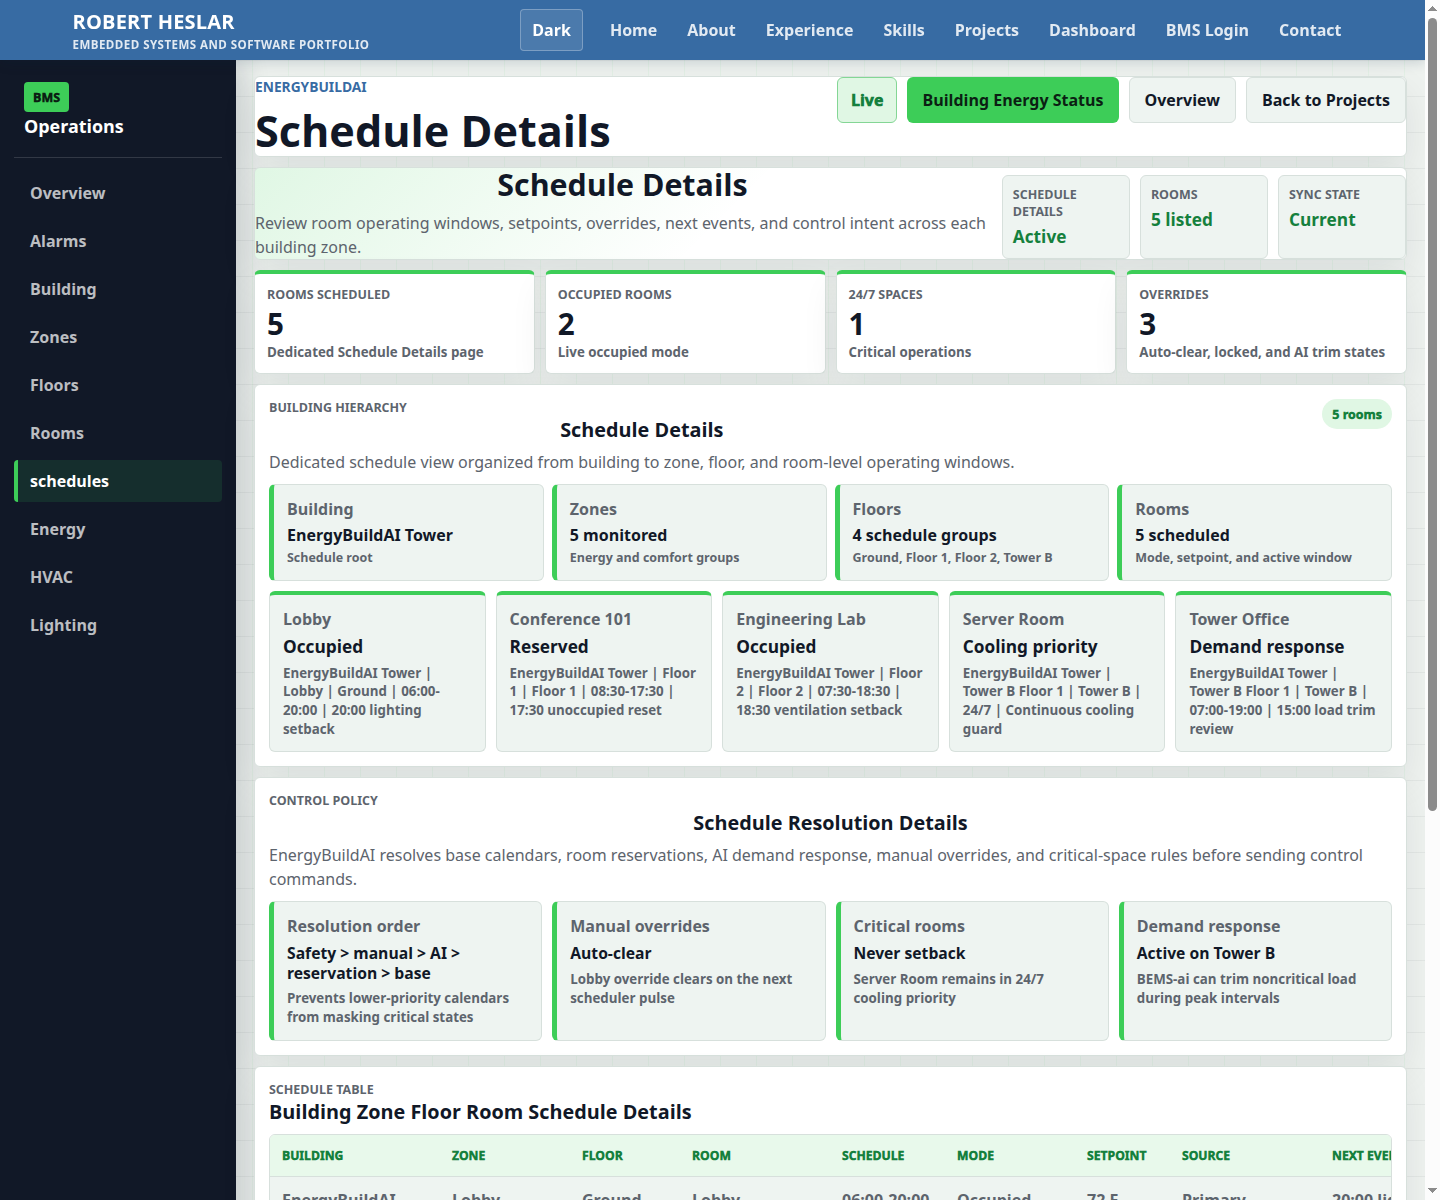
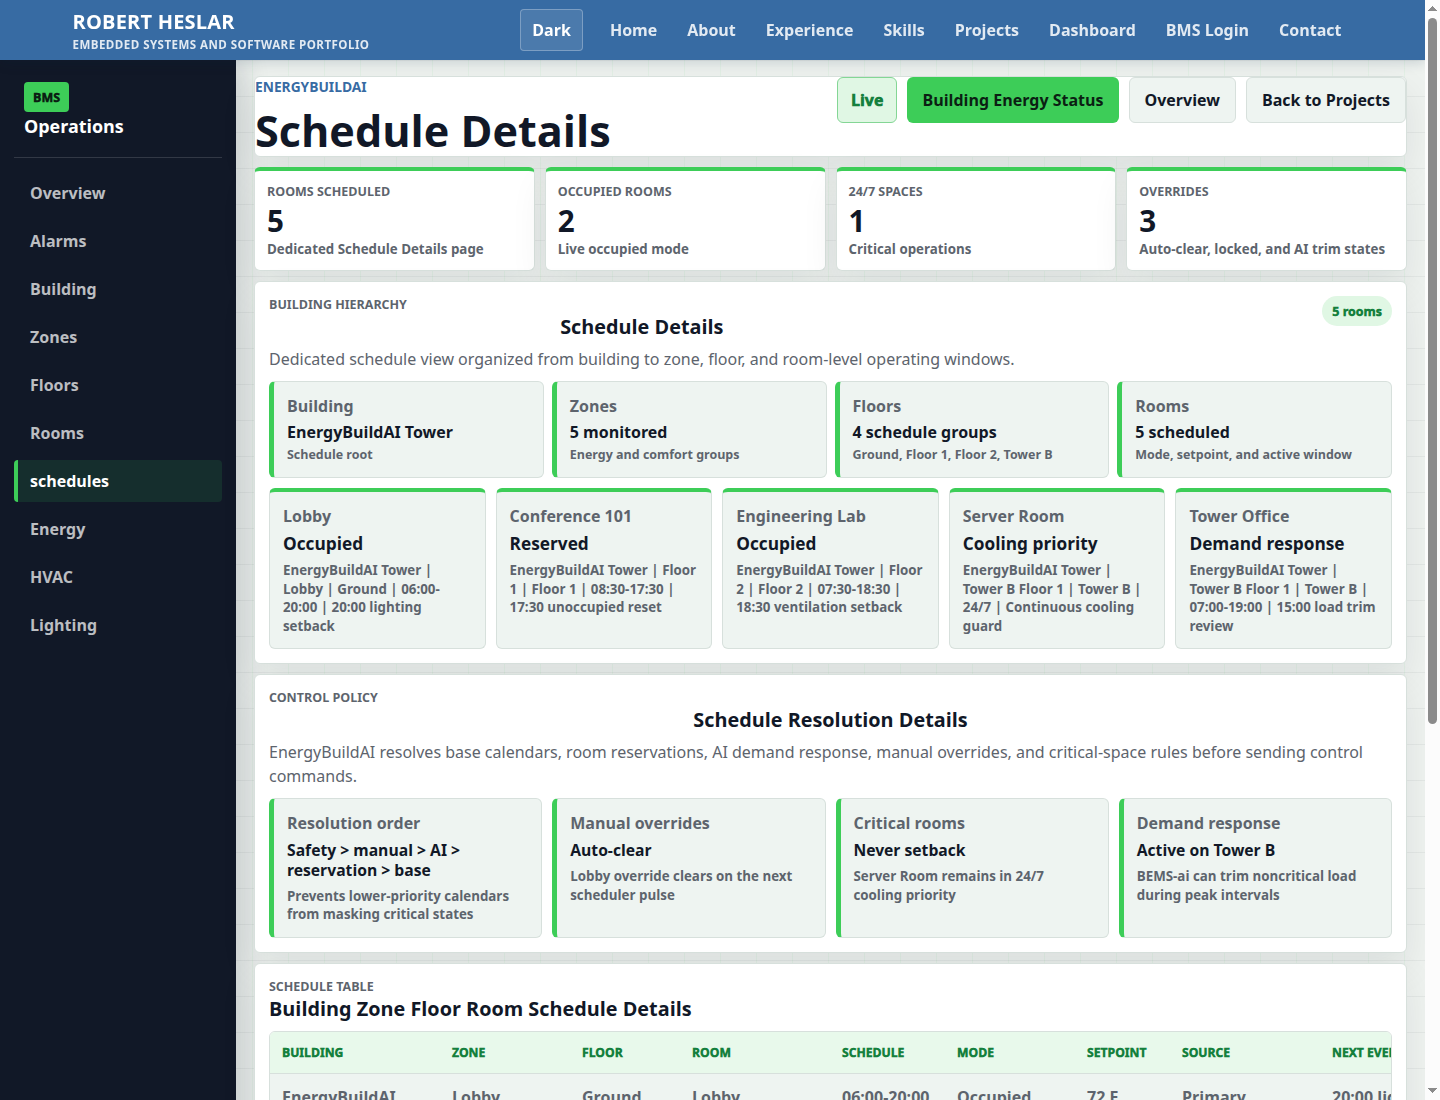
Remove schedule intro hero copy

diff --git a/src/components/Dashboard.tsx b/src/components/Dashboard.tsx
@@ -369,14 +369,14 @@ function Dashboard({ activeView = 'Overview' }: DashboardProps) {
       : isBuildingView
         ? 'Building Summary opens as a dedicated dashboard subpage for core facility status.'
       : isScheduleView
-        ? 'Schedule Details'
+        ? ''
       : '';
   const heroCopy = isAlarmView
     ? 'Select an alarm to inspect its location, source point, current reading, threshold, likely cause, impact, response steps, and event history.'
     : isBuildingView
       ? 'Use the Building tab for a concise view of the building, floors, zones, rooms, and connected systems.'
       : isScheduleView
-        ? 'Review room operating windows, setpoints, overrides, next events, and control intent across each building zone.'
+        ? ''
       : 'Real-time energy zones, comfort risk, alarm state, equipment health, portfolio evidence, and AI-assisted BEMS recommendations are arranged like an operational building dashboard.';
   const systemSummary = isAlarmView
     ? [
@@ -457,7 +457,7 @@ function Dashboard({ activeView = 'Overview' }: DashboardProps) {
           </div>
         </section>
 
-        {(isAlarmView || isBuildingView || isScheduleView) && (
+        {(isAlarmView || isBuildingView) && (
           <section className="eco-command-hero">
             <div>
               <h2>{heroTitle}</h2>

diff --git a/src/App.test.tsx b/src/App.test.tsx
@@ -76,7 +76,7 @@ test('redirects BMS login to the dashboard after successful credentials', () => 
   window.location.hash = '';
 });
 
-test('renders Schedule Details directly from #dashboard/schedules', () => {
+test('renders schedules directly from #dashboard/schedules without the removed intro copy', () => {
   jest.useFakeTimers();
   const container = document.createElement('div');
   document.body.appendChild(container);
@@ -94,7 +94,8 @@ test('renders Schedule Details directly from #dashboard/schedules', () => {
 
   expect(container.textContent).toContain('Schedule Details');
   expect(container.textContent).toContain('schedules');
-  expect(container.textContent).toContain('Review room operating windows, setpoints, overrides, next events, and control intent across each building zone.');
+  expect(container.textContent).toContain('Building Hierarchy');
+  expect(container.querySelector('.eco-command-hero')).toBeNull();
   expect(container.textContent).not.toContain('Secure BMS Access');
 
   act(() => {

diff --git a/docs/energybuildai-schedule-route-test-report.md b/docs/energybuildai-schedule-route-test-report.md
@@ -9,14 +9,14 @@ Confirm that the static portfolio route `#dashboard/schedules` opens the dashboa
 Automated coverage lives in `src/App.test.tsx`.
 
 ```text
-renders Schedule Details directly from #dashboard/schedules
+renders schedules directly from #dashboard/schedules without the removed intro copy
 ```
 
 The test sets `window.location.hash = '#dashboard/schedules'`, renders `App`, advances the loading timer, and verifies:
 
 - the dashboard renders the `Schedule Details` page title,
 - the left operation sidebar renders `schedules`,
-- the operator copy is `Review room operating windows, setpoints, overrides, next events, and control intent across each building zone.`,
+- the removed schedule-intro copy does not render on the route,
 - the previous long intro text is absent,
 - the BMS login page is not shown.
 
